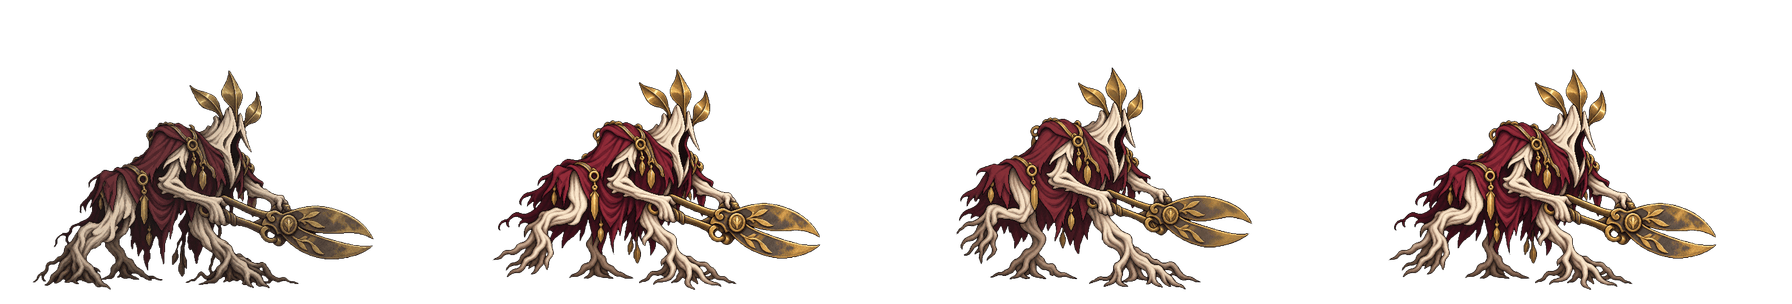
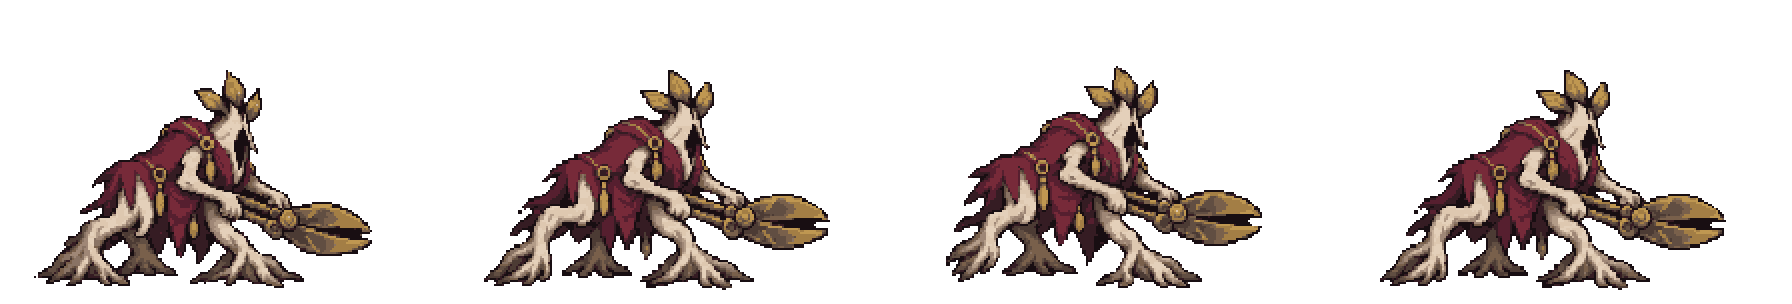
Final bosses in pixel style (GPT's redraw from endgame-crafting-board)
GPT redrew the gardener, weaver and archbishop walk and attack sheets in
the stage's pixel style (16 colours per boss, 2px pixels, binary alpha);
cell sizes, foot anchors, frame counts and hit timing are unchanged. It was
left uncommitted in the endgame-crafting-board worktree after the 12:15
commit this branch merged. Each of these bosses carries its own picture
version (data/atlas-boss-art.js, read by the stage roster's loader), so
browsers fetch the new sheets; cache keys for the two scripts, a doc line
and the patch note. Checked in the real arena fights: the six sheets load
with ?v=20261018-pixel1 (200) and draw in walk and attack poses.

diff --git a/index.html b/index.html
@@ -1485,7 +1485,7 @@
 <script defer src="data/atlas.js?v=20260930-15&aux=20261001-16&aux=20261001-17&maps=20261002-1&late=20261002-1&review=20261002-1&hive=20261006-1&review=20261007-1&goal=20261008-1&goal=20261008-4&goal=20261008-5&goal=20261008-6&goal=20261008-7&eff=20261008-1&ids=20261008-1&terms=20261009-1&fruit=20261009-1&post50=20261009-1&ages=20261009-1&uiwords=20261009-1&drops=20261009-3&bosses=20261018-1"></script>
 <script defer src="data/atlas-passives.js?v=20260930-16&aux=20261001-17&fruit=20261009-1&omen=20261018-1"></script>
 <script defer src="data/atlas-endgame.js?v=20261002-1&review=20261002-1&hive=20261006-1&names=20261008-1&ids=20261008-1&league=20261009-1&names=20261010-1&infl=20261010-6&bosses=20261018-1&omen=20261018-1"></script>
-<script defer src="data/atlas-boss-art.js"></script>
+<script defer src="data/atlas-boss-art.js?v=20261018-pixel1"></script>
 <script defer src="data/loot-omens.js?v=20261009-1&drops=20261009-2&drops=20261009-3&drops=20261009-4&drops=20261009-5&drops=20261009-6&filter=20261010-1&runes=20261017-1&omen=20261018-1"></script>
 <script defer src="data/memory-leaves.js?v=20261009-1&drops=20261009-3"></script>
 <script defer src="data/gem-core-forge.js?v=20260914-1&gem-value=20260915-1&aux=20261002-1&uiwords=20261009-1"></script>
@@ -1711,7 +1711,7 @@
 <script defer src="js/canvas-wisp-actors.js?v=20260929-1&backdrop=20261011-1"></script>
 <script defer src="js/canvas-monster-actors.js?v=20261002-1&weapons=20261002-1&realm=20261003-1&boss-attacks=20261006-1&stage=20261011-1&stagemon=20261011-1&backdrop=20261011-1&theme=20261011-1&roster=20261012-1&rim=20261013-2&bossmoves=20261016-1"></script>
 <script defer src="js/canvas-stage-stride.js?v=20261012-1&boss=20261014-1"></script>
-<script defer src="js/canvas-stage-roster.js?v=20261013-3&keep=20261013-1&lean=20261013-1&wispscale=20261013-1&perf=20261013-2&decode=20261014-1&boss=20261014-1&bossmoves=20261016-1&defeat=20261017-1&storyart=20261018-1&bosses=20261018-1"></script>
+<script defer src="js/canvas-stage-roster.js?v=20261013-3&keep=20261013-1&lean=20261013-1&wispscale=20261013-1&perf=20261013-2&decode=20261014-1&boss=20261014-1&bossmoves=20261016-1&defeat=20261017-1&storyart=20261018-1&bosses=20261018-1&bossstyle=20261018-1"></script>
 <script defer src="js/canvas-stage-warmup.js?v=20261014-1&runes=20261017-1"></script>
 <script defer src="js/battle-frame-stats.js?v=20261013-1"></script>
 <script defer src="js/canvas-battle-draw-list.js?v=20261013-1&lockon=20261017-1"></script>

diff --git a/js/canvas-stage-roster.js b/js/canvas-stage-roster.js
@@ -49,7 +49,7 @@ const stageRoster = (() => {
         return data.actors[settings().stageMonsterLook] || own || null;
     }
     /** A sheet, decoded off the main thread (js/canvas-stage-pictures.js). */
-    const load = file => stagePictures.openPicture(`${table().path}${file}?v=${table().version}`);
+    const load = (file, version = table().version) => stagePictures.openPicture(`${table().path}${file}?v=${version}`);
     function letGo(id, pair) {
         stagePictures.closePicture(pair.walk);
         if (pair.attack) stagePictures.closePicture(pair.attack);
@@ -90,8 +90,8 @@ const stageRoster = (() => {
         if (!pair) {
             // 쓴 때를 적고 나서 묶음을 줄인다: 0으로 넣고 줄이면 방금 넣은 묶음이 가장 오래된 것으로 뽑혀 바로 버려졌고, 그림을 비운
             // 묶음은 '불러오지 못함'으로 읽혀 그 몬스터가 예전 그림으로 그려졌다(2026-10-13: 한 번의 플레이에서 열다섯 번째 모습부터 모두).
-            pair = { walk: load(actor.id + '-walk.png'), attack: actor.attackMs ? load(actor.id + '-attack.png') : null,
-                death: actor.death ? load(actor.id + '-death.png') : null, at: tick };
+            pair = { walk: load(actor.id + '-walk.png', actor.version), attack: actor.attackMs ? load(actor.id + '-attack.png', actor.version) : null,
+                death: actor.death ? load(actor.id + '-death.png', actor.version) : null, at: tick };
             sheets.set(actor.id, pair);
             trim();
         }

diff --git a/data/atlas-boss-art.js b/data/atlas-boss-art.js
@@ -1,7 +1,8 @@
-/** Generated key poses, packed at game display scale. Sources/prompts: artifacts/endgame-expansion. */
+/** Pixel-redrawn key poses: shared 16-entry palettes, binary alpha, 2px clusters. Sources: artifacts/endgame-expansion/pixel-style. */
 const ATLAS_BOSS_ART = Object.freeze({
   "apex_gardener": {
     "id": "apex_gardener",
+    "version": "20261018-pixel1",
     "name": "정원사의 메아리",
     "w": 448,
     "h": 304,
@@ -38,6 +39,7 @@ const ATLAS_BOSS_ART = Object.freeze({
   },
   "apex_weaver": {
     "id": "apex_weaver",
+    "version": "20261018-pixel1",
     "name": "나이테를 엮는 자",
     "w": 352,
     "h": 288,
@@ -72,6 +74,7 @@ const ATLAS_BOSS_ART = Object.freeze({
   },
   "apex_archbishop": {
     "id": "apex_archbishop",
+    "version": "20261018-pixel1",
     "name": "검은 태양의 대사제",
     "w": 256,
     "h": 288,

diff --git a/docs/atlas-pinnacles-20261002.md b/docs/atlas-pinnacles-20261002.md
@@ -2,6 +2,7 @@
 
 ## 현재 확장 (2026-10-18)
 
+- 정원사, 엮는 자, 대사제의 이동/공격 그림은 도트 화풍(보스별 16색, 2px 픽셀, 이진 알파)으로 다시 그렸다. 칸 크기, 발 기준점, 프레임 수, 타격 시점은 그대로다. 그림을 바꾸면 `data/atlas-boss-art.js`의 그 보스 `version`을 올린다(브라우저가 예전 그림을 쥐고 있지 않게).
 - 후반 보스 5종의 단계 패턴·예고·공격 후 회복 구간을 연결했다. 엮는 자는 목격한 보스의 전용 외형도 복사한다. 정원사·엮는 자·대사제는 새 전용 그림과 키 포즈 공격 4칸, 장로·갉는 자는 기존 전용 이동/공격 6칸을 쓴다. 그림은 `data/atlas-boss-art.js`, 패턴·서사는 `data/atlas-endgame.js`가 소유한다(2026-10-18: 시그니처 문구는 빼고 카드가 고유 장비의 실제 효과를 보여 준다. 최종 보기 카드는 보스 그림을 보여 주지 않는다). 기존 첫 처치 고유 아이템 보장은 유지한다.
 - 용암·빙결·부식·감전 지대는 예고 뒤 5초 유지되며 0.5초마다 판정한다. 최대 3개, 같은 속성의 중첩 피해는 한 번만 적용한다. 용암/부식은 저항과 지속 피해 감소, 빙결/감전은 기존 상태이상 방어를 사용한다. 장판 지속 피해는 막기·흡수 공격으로 취급하지 않는다. 걸을 수 없는 칸에는 생기지 않으며 자동전투는 위험 칸을 피해서 접근한다. 기존 시련의 단발 함정은 유지한다.
 - 지도에 빙결·부식·감전 지대 옵션을 추가했다. 기존 용암 옵션 ID는 보존했다. 지도 옵션의 회피/연속 타격 확률 `+`가 기존 확률에 가산되도록 설명과 계산을 맞췄다. 장비 전체 옵션의 재설계는 하지 않았다.

diff --git a/changelog.md b/changelog.md
@@ -2,7 +2,7 @@
 ## v0.3.10 - 2026-10-18
 - 최종 보스 다섯이 단계마다 이어지는 공격을 씁니다. 큰 공격은 1.9초, 마무리는 2.2초 먼저 바닥에 예고하고, 마무리 뒤 2.6초 동안 새 공격이 없습니다.
 - 최종 보스 투기장에 용암, 빙결, 부식, 감전 지대가 깔립니다. 예고 뒤 5초 동안 남아 0.5초마다 피해를 주고, 한 번에 3개까지입니다.
-- 정원사의 메아리, 나이테를 엮는 자, 검은 태양의 대사제의 그림과 공격 모습이 새로 생겼고, 최종 보스마다 이야기와 등장, 쓰러질 때의 말이 있습니다. 나이테를 엮는 자는 목격한 보스의 모습을 빌려 씁니다.
+- 정원사의 메아리, 나이테를 엮는 자, 검은 태양의 대사제의 도트 그림과 공격 모습이 새로 생겼고, 최종 보스마다 이야기와 등장, 쓰러질 때의 말이 있습니다. 나이테를 엮는 자는 목격한 보스의 모습을 빌려 씁니다.
 - 지도 옵션에 빙결, 부식, 감전 지대가 더해졌습니다. 지도 옵션의 회피와 연속 타격 확률은 원래 확률에 더해집니다.
 - 심재의 나이테(루프 34): 24칸 길을 심재 주사위로 나아가며 지도와 문지기를 깹니다. 주사위는 처음 3개, 그 뒤로는 혼돈 20층 이상이나 아틀라스 8등급 이상 지도의 나이테 길잡이(정예 12%, 그 밖 1.2%)가 줍니다. 지거나 귀환하면 그 도전에서 모은 보관 재화의 15%를 잃습니다.
 - 제작 연구: 제작실에서 목표를 3개까지 정하고(모두 또는 하나 이상), 이 장비에 나올 수 있는 옵션과 가중치, 막힌 까닭을 봅니다. 재화 없이 1회 연습하거나 2,000회 굴려 목표 확률을 잽니다.
